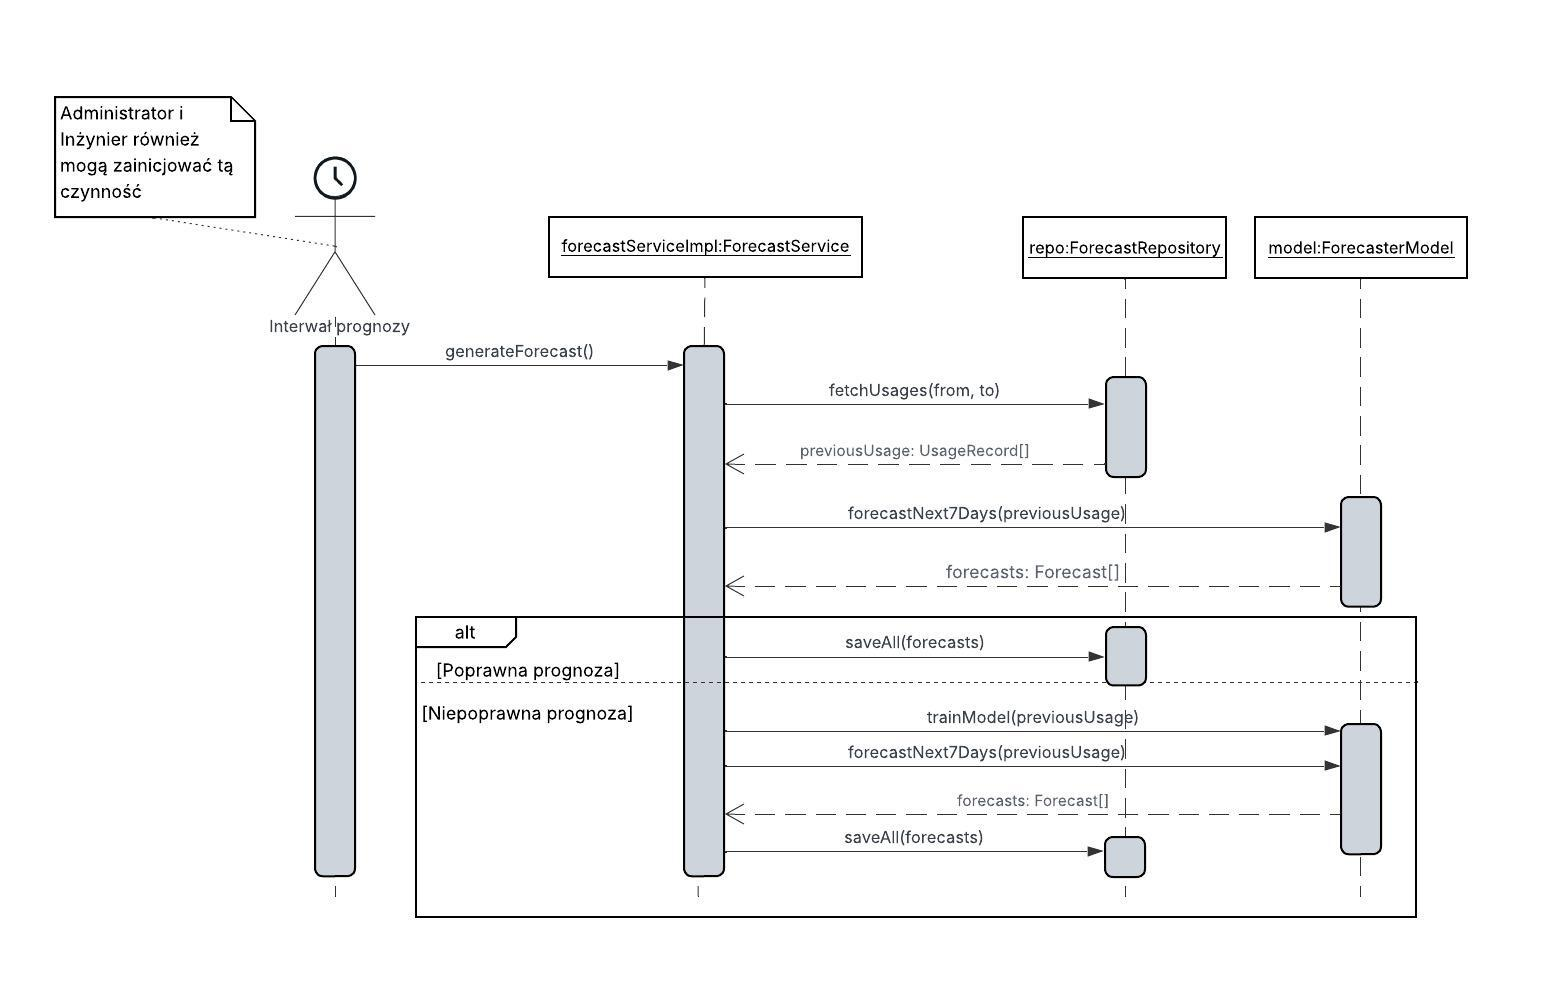
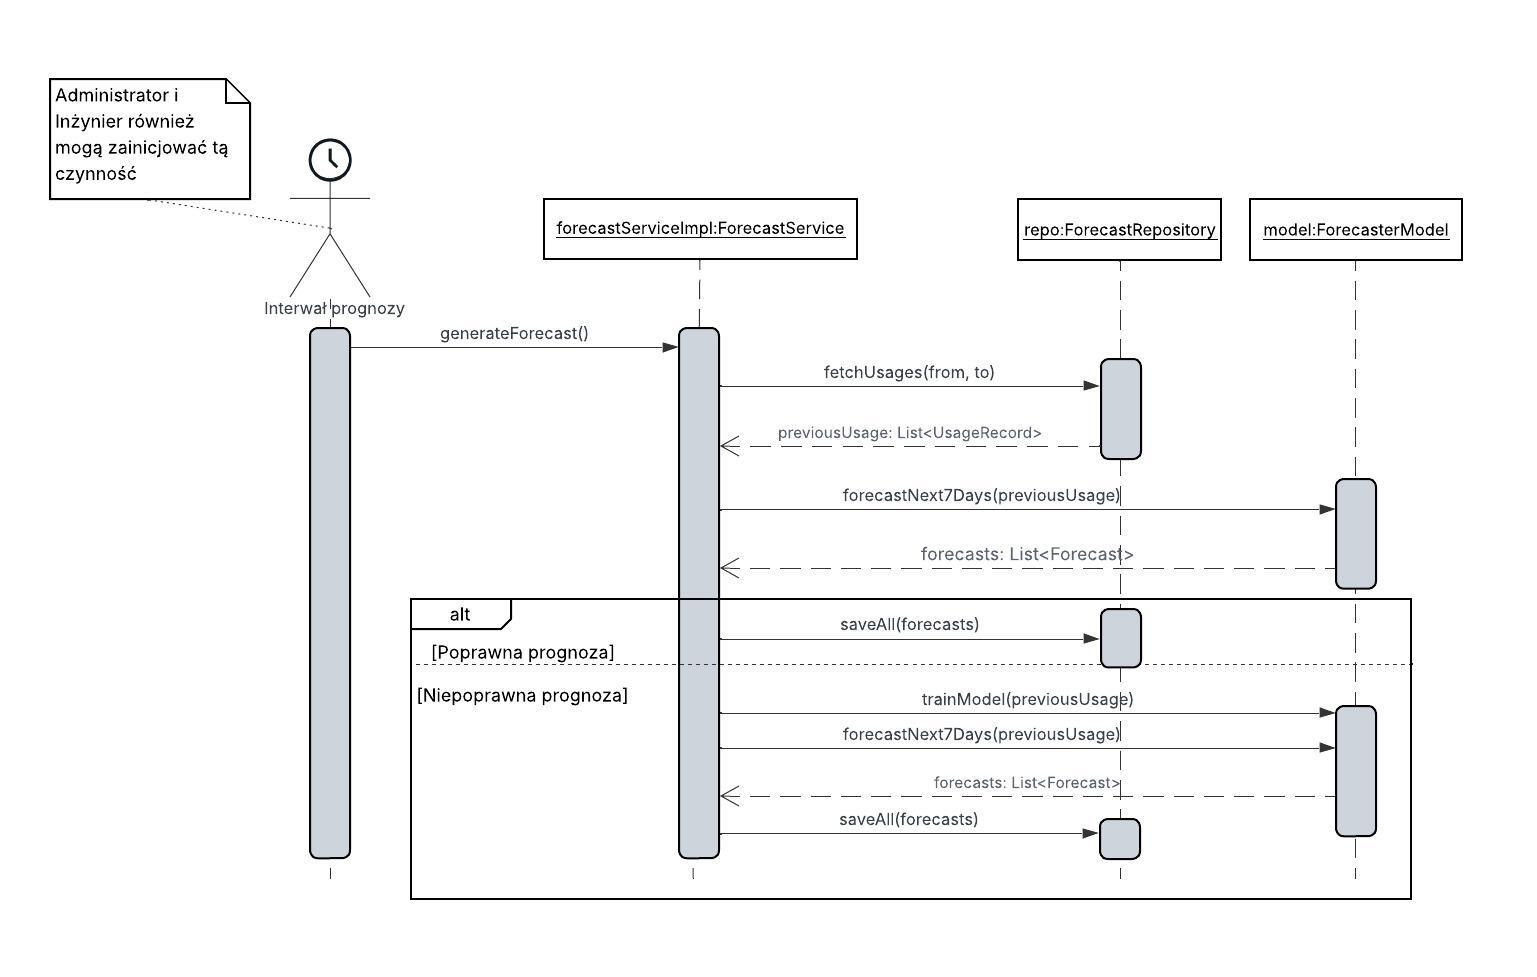
Małe poprawki

diff --git a/doc/prognozowanie/dokumentacja.md b/doc/prognozowanie/dokumentacja.md
@@ -41,6 +41,7 @@ Dodatkowo Administrator i Inżynier mogą jeszcze:
 ## Okresowe generowanie prognoz zużycia energii elektrycznej oraz trenowanie modelu uczenia maszynowego.
 
 ![Diagram przypadków użycia dla aktorów "czasowych"](./img/io_use_case_diagram_time_actors.png)
+
 Diagram 1
 
 Ten diagram przypadków użycia przedstawia automatyczne generowanie prognozy zużycia energii elektrycznej oraz trening modelu uczenia maszynowego.
@@ -49,27 +50,28 @@ Głównymi aktorami w tym diagramie są interwał prognozy oraz interwał trenin
 ## Generowanie i wyświetlanie prognoz zużycia energii elektrycznej.
 
 ![Diagram przypadków użycia dla ludzkich aktorów](./img/io_use_case_diagram_actors.png)
+
 Diagram 2
 
 Powyższy diagram przypadków użycia przedstawia generowanie prognozy zużycia energii elektrycznej na żądanie oraz wyświetlanie jej.
 Główni aktorzy tego diagramu to Inżynier oraz Administrator. 
 Mogą oni wygenerować prognozę, co wiąże się z pobraniem danych zużycia energii elektrycznej z poprzednich dni, przetworzeniem ich i zapisaniem wygenerowanej prognozy zużycia energii elektrycznej.
 Gdy podczas sprawdzania poprawności prognozy zużycia energii elektrycznej dojdzie do wykrycia nieprawidłowości, zostanie przeprowadzony trening modelu uczenia maszynowego.
-Inna czynności dostępna dla tych aktorów to wyświetlenie prognozy zużycia energii elektrycznej, co wiąże się z odczytaniem poprzednio wygenerowanych i zapisanych prognoz.
+Inna czynność dostępna dla tych aktorów to wyświetlenie prognozy zużycia energii elektrycznej, co wiąże się z odczytaniem poprzednio wygenerowanych i zapisanych prognoz.
 
 # Diagramy klas
 
 ![Diagram klas](img/class_diagram.jpg)
+
 Diagram 3
 
-Na przedstawionym diagramie zostały uwidocznione klasy związane z modułem prognozowania
+Na przedstawionym diagramie zostały uwidocznione klasy związane z modułem prognozowania.
 Najistotniejszą klasą w tym module jest klasa **ForecastServiceImpl** implementująca interfejs **ForecastService**.
 Steruje ona przepływem danych pomiędzy repozytorium **ForecastRepository**, a algorytmem uczenia maszynowego zdefiniowanym w **ForecasterModel**.
 Klasy pomocnicze **UsageRecord** i **Forecast** służą do przechowywania odpowiednio przeszłego i prognozowanego zużycia energii elektrycznej.
 **DataPredictionController** zapewnia komunikację modułu prognozowania z warstwą prezentacji.
 
 # Diagramy interakcji
-[diagramy interakcji (sekwencji lub komunikacji) dla wybranych przypadków użycia z diagramu(ów) przypadków użycia, dla których zdefiniowano wcześniej scenariusze]
 
 ## Scenariusz 1
 
@@ -92,6 +94,7 @@ Klasy pomocnicze **UsageRecord** i **Forecast** służą do przechowywania odpow
 ## Diagram interakcji 1
 
 ![Diagram interakcji 1](img/sequence_diagram_1.jpeg)
+
 Diagram 4
 
 Diagram przedstawia przepływ informacji między poszczególnymi klasami modułu w celu wygenerowania prognozy zużycia energii elektrycznej.
@@ -117,13 +120,15 @@ Diagram przedstawia przepływ informacji między poszczególnymi klasami modułu
 ## Diagram interakcji 2
 
 ![Diagram sekwencji 2](img/sequence_diagram_2.jpeg)
+
 Diagram 5
 
-Na diagramie został uwidoczniony przepływ informacji między klasami związany z pobraniem, a następnie wyświetleniem prognoz.
+Na diagramie został uwidoczniony przepływ informacji między klasami związany z pobraniem, a następnie wyświetleniem prognoz zużycia energii elektrycznej.
 
-# Diagram czynności [minimum 1]
+# Diagram czynności
 
 ![Diagram czynności](img/activity_diagram.jpeg)
+
 Diagram 6
 
 Diagram przedstawia czynności wykonywane w przypadku wyświetlenia prognoz zużycia energii elektrycznej.
@@ -131,6 +136,7 @@ Diagram przedstawia czynności wykonywane w przypadku wyświetlenia prognoz zuż
 # Diagram maszyny stanowej
 
 ![Diagram maszyny stanowej](img/state_machine_diagram.jpg)
+
 Diagram 7
 
 Diagram przedstawia stany, w których znajduje się system, gdy wyświetla prognozy zużycia energii elektrycznej.
@@ -138,6 +144,7 @@ Diagram przedstawia stany, w których znajduje się system, gdy wyświetla progn
 # Diagram komponentów
 
 ![Diagram komponentów](img/component_diagram.png)
+
 Diagram 8
 
 Moduł prognozowania łączy się z modułem symulacji poprzez bazę danych i pobiera z niej dane zużycia energii elektrycznej z poprzednich dni.
@@ -146,6 +153,7 @@ Moduł alarmowania i alertów łączy się z modułem prognozowania poprzez wyst
 # Diagram pakietów
 
 ![Diagram pakietów](img/package_diagram.jpeg)
+
 Diagram 9
 
 Na diagramie zostały zaprezentowane relacje pomiędzy poszczególnymi pakietami modułu prognozowania.
@@ -153,6 +161,7 @@ Na diagramie zostały zaprezentowane relacje pomiędzy poszczególnymi pakietami
 # Diagram przeglądu interakcji
 
 ![Diagram przeglądu interakcji](img/interaction_diagram.jpeg)
+
 Diagram 10
 
 Diagram przedstawia przepływ sterowania dla przypadku wyświetlenia prognozy zużycia energii elektrycznej.
@@ -160,6 +169,7 @@ Diagram przedstawia przepływ sterowania dla przypadku wyświetlenia prognozy zu
 # Diagram strukturalny
 
 ![Diagram strukturalny](img/structural_diagram.jpeg)
+
 Diagram 11
 
 Diagram przedstawia wzajemnie współdziałające części modułu prognozowania.
@@ -168,6 +178,7 @@ Kooperacją większości części modułu jest "Trening modelu uczenia maszynowe
 # Diagram harmonogramowania
 
 ![Diagram harmonogramowania](img/scheduling_diagram.jpg)
+
 Diagram 12
 
 Diagram przedstawia przybliżony czas trwania poszczególnych stanów wymienionych obiektów zachodzących w przypadku treningu modelu uczenia maszynowego oraz generowaniu prognozy zużycia energii elektrycznej.